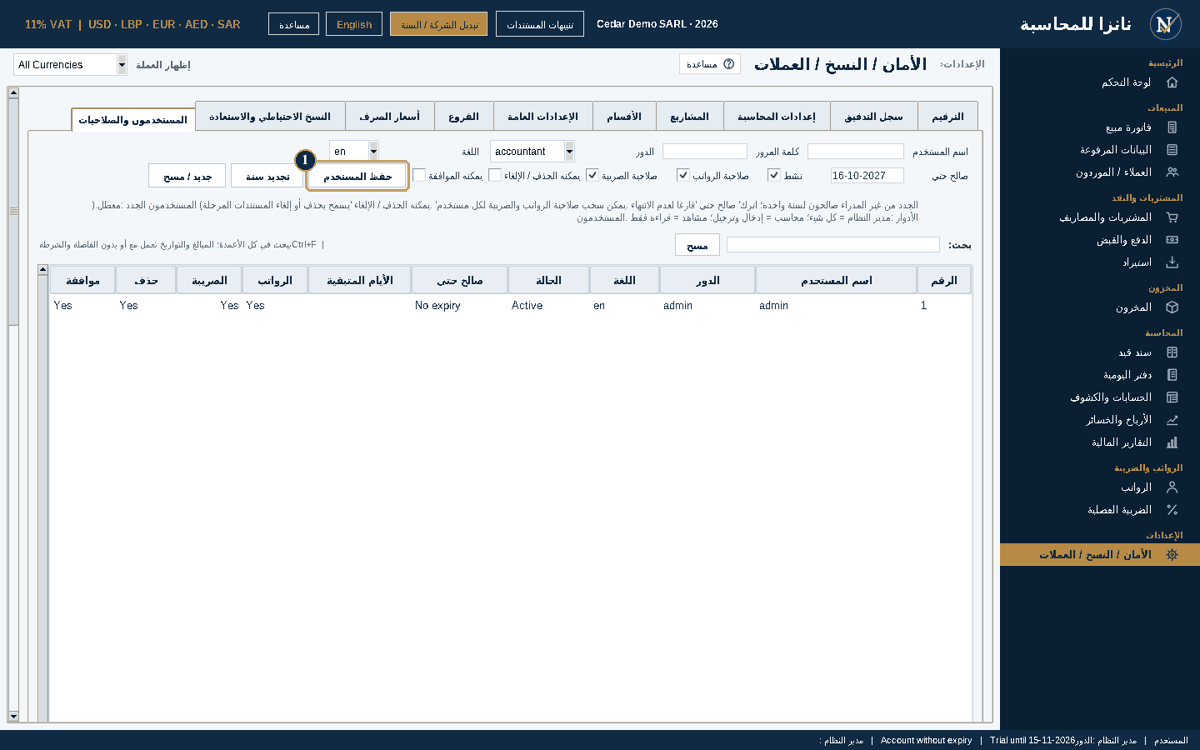
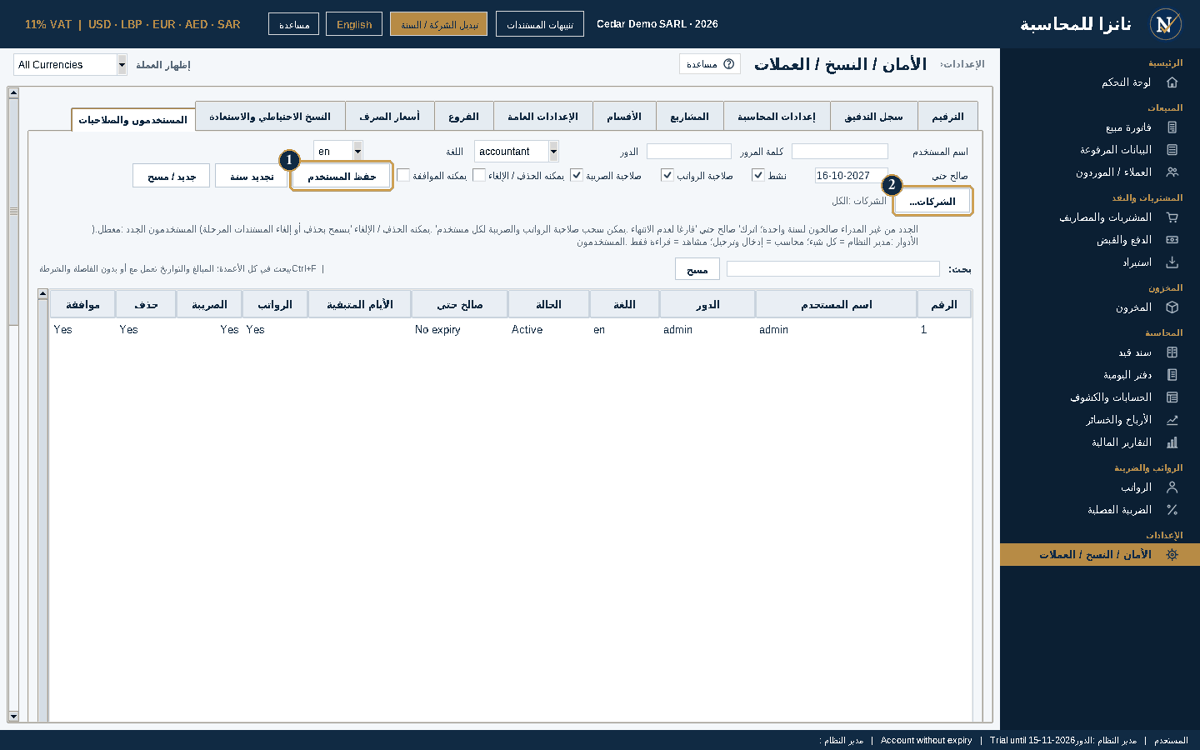
2.9.121: every document saved whole (one transaction, crash-tested), reviewed with ChatGPT (EUR rate, allocations, VAT amounts, VAT settlement), users per company, licence ended = read only, management financial statements, PDF uploads posted by memory, help pictures
Claude-Session: https://claude.ai/code/session_01BtyvhQboT9WEED4QAevGAa

Changed region(s): [[0.0308, 0.184, 0.8325, 0.46], [0.37, 0.276, 0.4317, 0.3067]]

diff --git a/Assets/help/help.html b/Assets/help/help.html
@@ -54,7 +54,7 @@ body.arabic nav a .ar{display:block} nav a .en{display:block} body.arabic nav a 
 <p class="intro"><span class="en">The VAT return of each quarter, ready to file.</span><span class="ar">تصريح كل فصل جاهز للتقديم.</span></p>
 <a class="en" href="img/vat_tab.png" target="_blank"><img src="img/vat_tab.png" alt="Quarterly VAT return" loading="lazy"></a><a class="ar" href="img/vat_tab_ar.png" target="_blank"><img src="img/vat_tab_ar.png" alt="التصريح الفصلي للضريبة على القيمة المضافة" loading="lazy"></a><ol><li><b>1</b><span class="en">Choose the quarter and Generate: the boxes are filled from the books.</span><span class="ar">اختر الفصل واضغط Generate: تُعبّأ الخانات من الدفاتر.</span></li><li><b>2</b><span class="en">Save the return: the quarter is locked so the filed figures stay true.</span><span class="ar">احفظ التصريح: يُقفل الفصل لتبقى الأرقام المصرّح بها صحيحة.</span></li><li><b>3</b><span class="en">Export the return to PDF or Excel.</span><span class="ar">صدّر التصريح إلى PDF أو Excel.</span></li><li><b>4</b><span class="en">Fill the official VAT form.</span><span class="ar">عبّئ النموذج الرسمي للضريبة.</span></li></ol></section><section class="topic" id="settings_tab"><h2><span class="en">Settings, users and backups</span><span class="ar">الإعدادات والمستخدمون والنسخ الاحتياطي</span></h2>
 <p class="intro"><span class="en">Users and permissions, backups, rates, numbering and accounting settings.</span><span class="ar">المستخدمون والصلاحيات والنسخ الاحتياطي وأسعار الصرف والترقيم وإعدادات المحاسبة.</span></p>
-<a class="en" href="img/settings_tab.png" target="_blank"><img src="img/settings_tab.png" alt="Settings, users and backups" loading="lazy"></a><a class="ar" href="img/settings_tab_ar.png" target="_blank"><img src="img/settings_tab_ar.png" alt="الإعدادات والمستخدمون والنسخ الاحتياطي" loading="lazy"></a><ol><li><b>1</b><span class="en">Users &amp; Permissions: add a user with a role and the screens he may use.</span><span class="ar">المستخدمون والصلاحيات: أضف مستخدماً مع دوره والشاشات المسموحة له.</span></li><li><b>2</b><span class="en">Backup &amp; Restore: Create Backup Now, and a second copy on OneDrive or a USB disk.</span><span class="ar">النسخ الاحتياطي: Create Backup Now، ونسخة ثانية على OneDrive أو قرص USB.</span></li><li><b>3</b><span class="en">Numbering: the prefix of each document, the branch in the number, and Renumber by date.</span><span class="ar">الترقيم: بادئة كل مستند، والفرع في الرقم، وإعادة الترقيم حسب التاريخ.</span></li></ol></section><section class="topic" id="start_with_nanza"><h2><span class="en">Start with Nanza and check the books</span><span class="ar">ابدأ مع نانزا وافحص الدفاتر</span></h2>
+<a class="en" href="img/settings_tab.png" target="_blank"><img src="img/settings_tab.png" alt="Settings, users and backups" loading="lazy"></a><a class="ar" href="img/settings_tab_ar.png" target="_blank"><img src="img/settings_tab_ar.png" alt="الإعدادات والمستخدمون والنسخ الاحتياطي" loading="lazy"></a><ol><li><b>1</b><span class="en">Users &amp; Permissions: add a user with a role and the screens he may use.</span><span class="ar">المستخدمون والصلاحيات: أضف مستخدماً مع دوره والشاشات المسموحة له.</span></li><li><b>2</b><span class="en">Companies...: the companies this user may open (none ticked = every company). An accounting office gives each clerk only his clients.</span><span class="ar">الشركات...: الشركات التي يحق لهذا المستخدم فتحها (لا شيء محدد = كل الشركات). مكتب المحاسبة يعطي كل موظف زبائنه فقط.</span></li><li><b>3</b><span class="en">Backup &amp; Restore: Create Backup Now, and a second copy on OneDrive or a USB disk.</span><span class="ar">النسخ الاحتياطي: Create Backup Now، ونسخة ثانية على OneDrive أو قرص USB.</span></li><li><b>4</b><span class="en">Numbering: the prefix of each document, the branch in the number, and Renumber by date.</span><span class="ar">الترقيم: بادئة كل مستند، والفرع في الرقم، وإعادة الترقيم حسب التاريخ.</span></li></ol></section><section class="topic" id="start_with_nanza"><h2><span class="en">Start with Nanza and check the books</span><span class="ar">ابدأ مع نانزا وافحص الدفاتر</span></h2>
 <p class="intro"><span class="en">Bring the balances of the old program in one Excel file, then check that every number is where it should be.</span><span class="ar">انقل أرصدة البرنامج القديم بملف Excel واحد، ثم افحص أن كل رقم في مكانه.</span></p>
 <a class="en" href="img/start_with_nanza.png" target="_blank"><img src="img/start_with_nanza.png" alt="Start with Nanza and check the books" loading="lazy"></a><a class="ar" href="img/start_with_nanza_ar.png" target="_blank"><img src="img/start_with_nanza_ar.png" alt="ابدأ مع نانزا وافحص الدفاتر" loading="lazy"></a><ol><li><b>1</b><span class="en">Save the Excel template: opening balances, customers &amp; suppliers, open invoices and items, one sheet each.</span><span class="ar">احفظ نموذج Excel: الأرصدة الافتتاحية، الزبائن والموردون، الفواتير المفتوحة والأصناف، كل منها في ورقة.</span></li><li><b>2</b><span class="en">Choose the filled file: every line is checked first and nothing is saved while one is wrong. Then Import.</span><span class="ar">اختر الملف المعبّأ: يُفحص كل سطر أولاً ولا يُحفظ شيء إذا كان أي سطر خاطئاً. ثم اضغط استيراد.</span></li><li><b>3</b><span class="en">Books Health Check: balanced entries, every document in the books, no gaps or duplicate numbers, VAT returns unchanged.</span><span class="ar">فحص سلامة الدفاتر: قيود متوازنة، كل مستند في الدفاتر، لا فجوات ولا أرقام مكررة، التصاريح الضريبية لم تتغير.</span></li></ol></section><section class="topic" id="posting_rules"><h2><span class="en">Posting rules and reading invoices</span><span class="ar">قواعد القيد وقراءة الفواتير</span></h2>
 <p class="intro"><span class="en">The program remembers how you posted each supplier and fills the next invoice the same way - free, on your computer.</span><span class="ar">يتذكّر البرنامج كيف قيّدت كل مورد ويعبّئ فاتورته التالية بالطريقة نفسها - مجاناً وعلى جهازك.</span></p>

diff --git a/tools/help_topics.py b/tools/help_topics.py
@@ -93,6 +93,8 @@ TOPICS = [
     ("settings_tab", "Settings, users and backups", "الإعدادات والمستخدمون والنسخ الاحتياطي",
      "Users and permissions, backups, rates, numbering and accounting settings.", "المستخدمون والصلاحيات والنسخ الاحتياطي وأسعار الصرف والترقيم وإعدادات المحاسبة.",
      [("Save User", "Users & Permissions: add a user with a role and the screens he may use.", "المستخدمون والصلاحيات: أضف مستخدماً مع دوره والشاشات المسموحة له."),
+      ("Companies...", "Companies...: the companies this user may open (none ticked = every company). An accounting office gives each clerk only his clients.",
+       "الشركات...: الشركات التي يحق لهذا المستخدم فتحها (لا شيء محدد = كل الشركات). مكتب المحاسبة يعطي كل موظف زبائنه فقط."),
       (None, "Backup & Restore: Create Backup Now, and a second copy on OneDrive or a USB disk.", "النسخ الاحتياطي: Create Backup Now، ونسخة ثانية على OneDrive أو قرص USB."),
       (None, "Numbering: the prefix of each document, the branch in the number, and Renumber by date.", "الترقيم: بادئة كل مستند، والفرع في الرقم، وإعادة الترقيم حسب التاريخ.")]),
 ]

diff --git a/nanza/reports/financial_statements.py b/nanza/reports/financial_statements.py
@@ -433,7 +433,8 @@ def build(databases, options, others=(), master=None):
     signature = [line for line in _text(cfg, 'audit', 'Signature, address and report date', AUDIT, values, language).splitlines() if line.strip()]
     if options.get('auditor_report', True) is False:  # 2.9.121: management financial statements - no auditor's report at all
         audit_rows = None
-    if audit_rows is not None: sections.append(dict(kind='audit', heading=t("INDEPENDENT AUDITOR'S REPORT"), headers=['Text'], rows=audit_rows, total_rows=[], narrative=True, page_break=True, center=True,
+    if audit_rows is not None:
+        sections.append(dict(kind='audit', heading=t("INDEPENDENT AUDITOR'S REPORT"), headers=['Text'], rows=audit_rows, total_rows=[], narrative=True, page_break=True, center=True,
                          keep_last=len(signature), logo_b64=cfg.get('auditor_logo') or ''))  # 2.9.97: the auditor's logo on top of his report
 
     # ---- note numbers for the statement lines that have amounts
